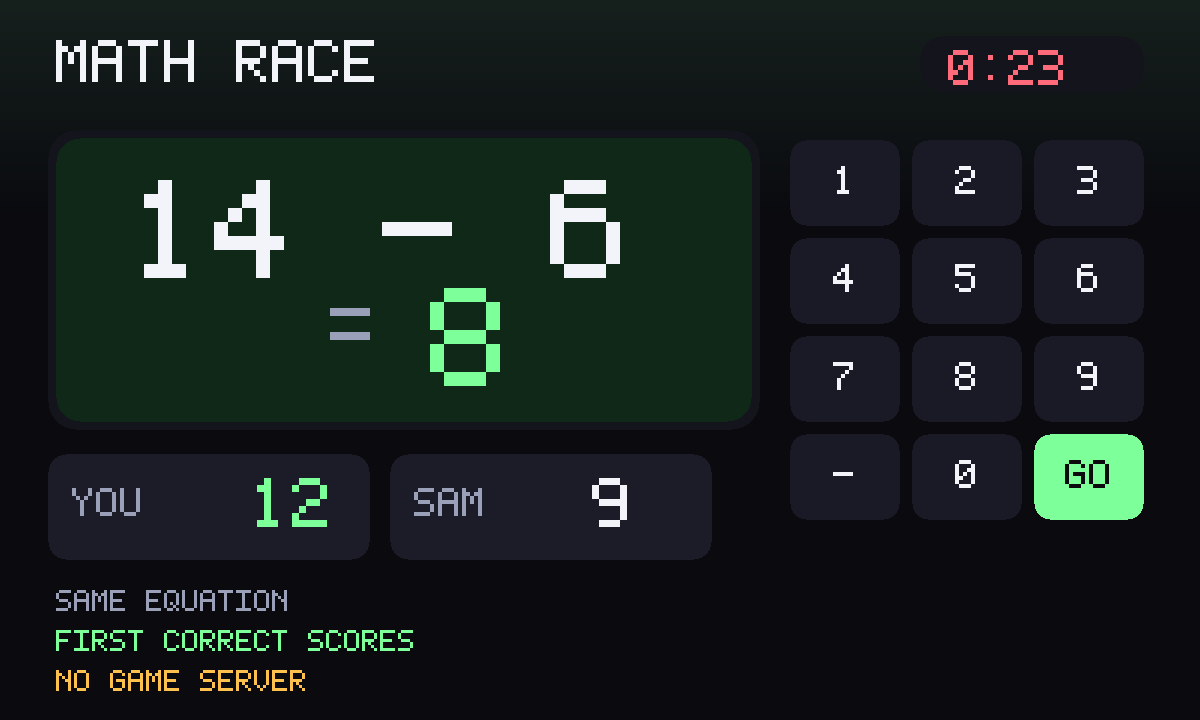
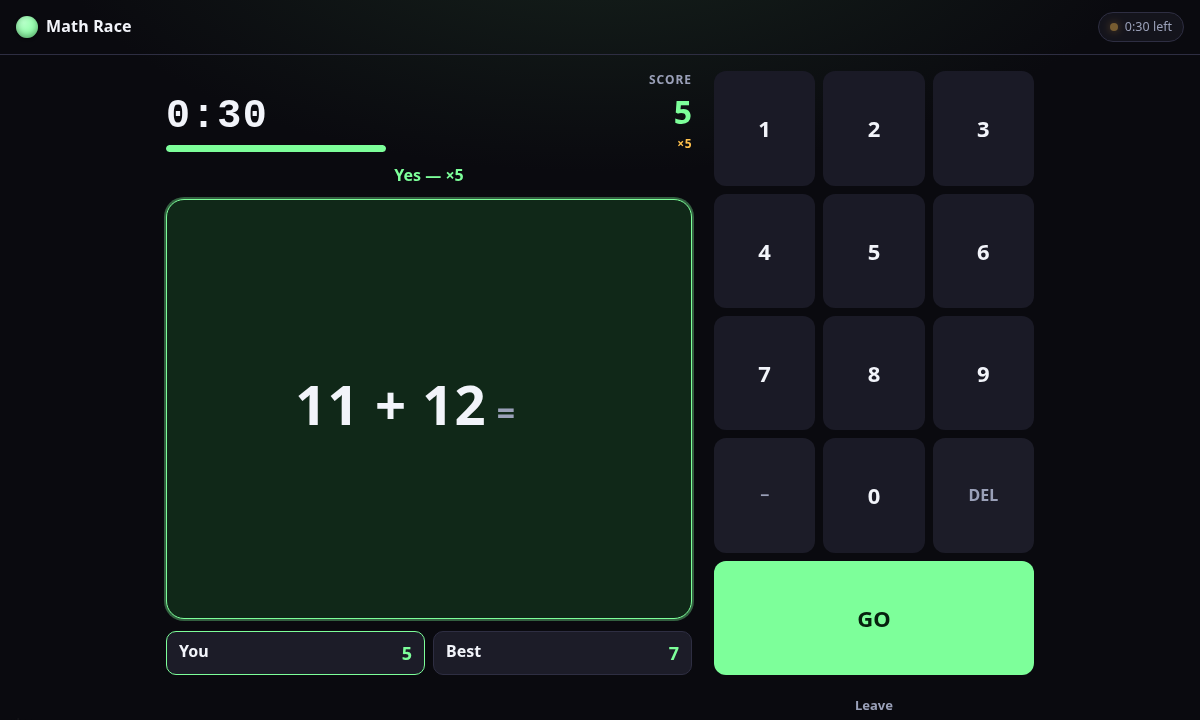
math-race: gauntlet — real mid-race cover, landscape pad, You versus Best

diff --git a/apps/math-race/style.css b/apps/math-race/style.css
@@ -107,7 +107,8 @@ button{font:inherit}
 
 .eqwrap{
   background:var(--surface);border:1px solid var(--border);border-radius:18px;
-  padding:14px 12px;text-align:center;transition:background .15s,border-color .15s,box-shadow .15s
+  padding:14px 12px;text-align:center;transition:background .15s,border-color .15s,box-shadow .15s;
+  display:flex;align-items:center;justify-content:center
 }
 .eqwrap.bad{background:#2a1216;border-color:var(--bad);box-shadow:0 0 0 2px rgba(255,107,122,.35)}
 .eqwrap.good{background:#102818;border-color:var(--accent);box-shadow:0 0 0 2px rgba(125,255,154,.35)}
@@ -171,4 +172,24 @@ button{font:inherit}
 
 @media (min-height:740px){
   .pad button{min-height:58px}
+}
+@media (min-width:720px){
+  main{max-width:900px;width:100%}
+  #game.game{
+    display:grid;
+    grid-template-columns:minmax(0,1fr) 320px;
+    grid-template-rows:auto auto 1fr auto auto;
+    gap:12px 22px;
+    flex:1;min-height:0
+  }
+  #game .hud,#game .statusline,#game .eqwrap,#game .scores{grid-column:1;width:100%}
+  #game .hud,#game .statusline,#game .scores{align-self:start}
+  #game .eqwrap{align-self:stretch;min-height:160px}
+  #game .pad{
+    grid-column:2;grid-row:1 / 5;margin-top:0;align-self:stretch;
+    grid-auto-rows:1fr
+  }
+  #game .pad button{min-height:0}
+  #game .leave{grid-column:2;grid-row:5;align-self:end}
+  #game .endcard{grid-column:1 / -1}
 }
